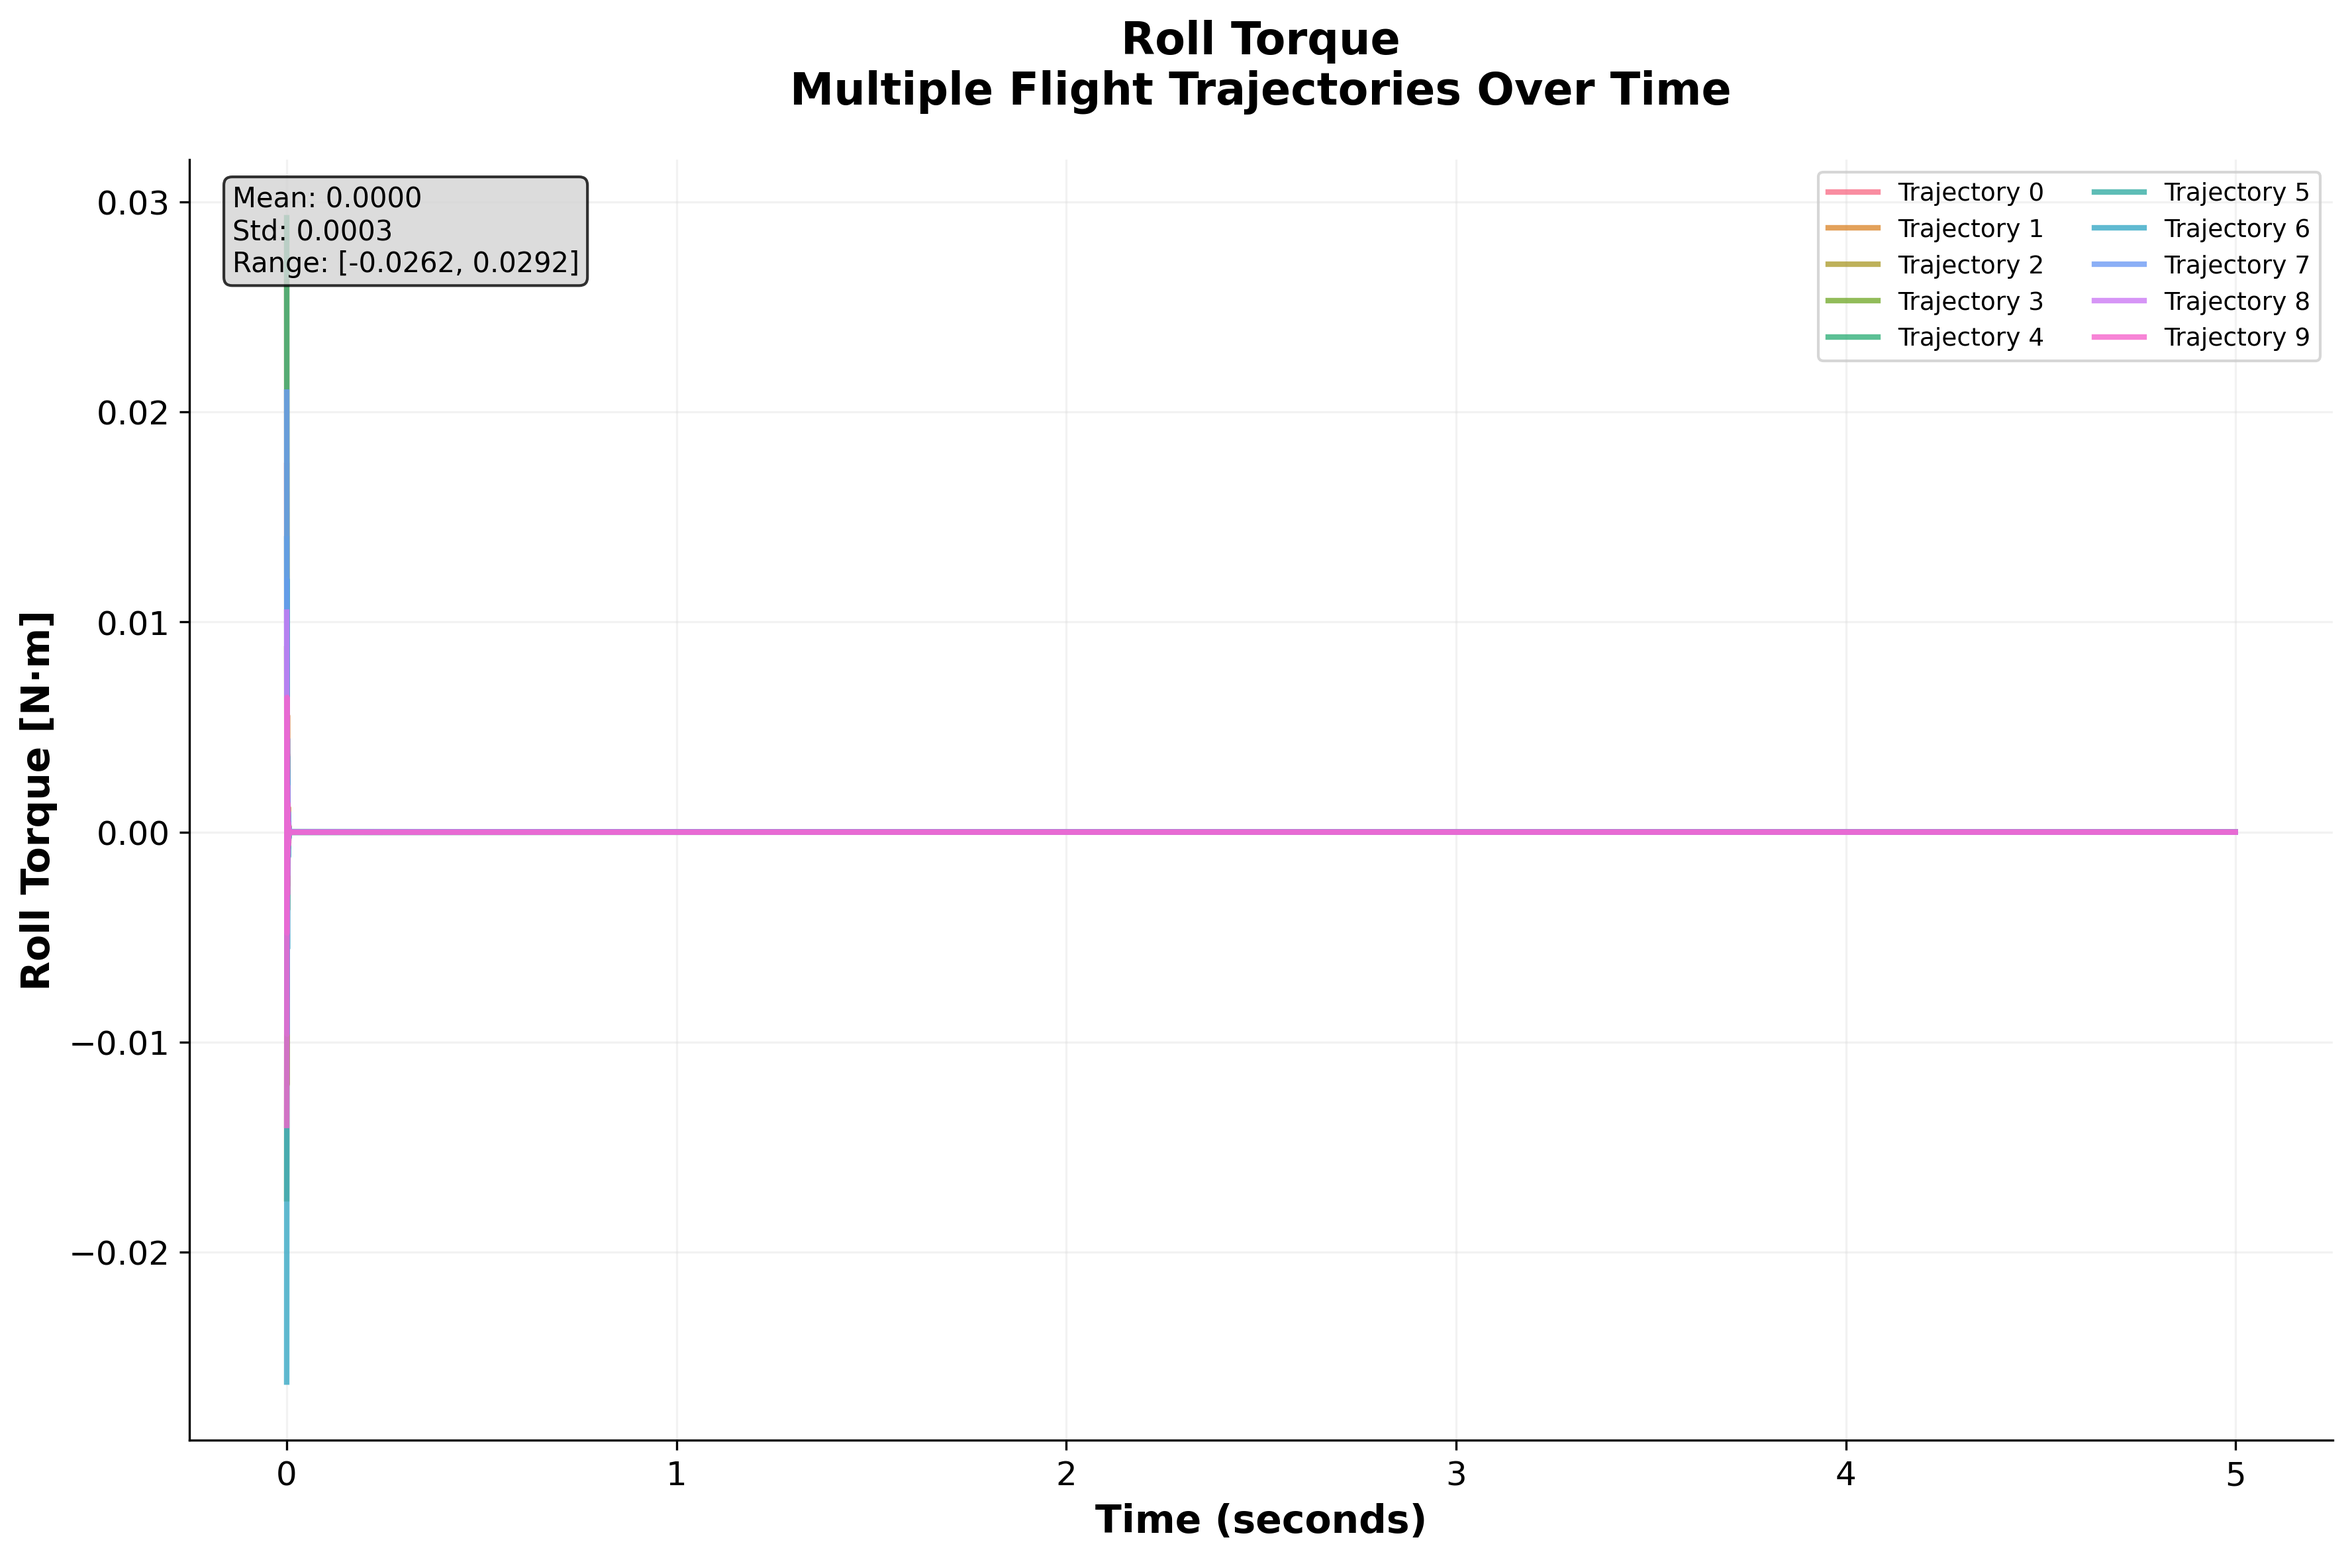
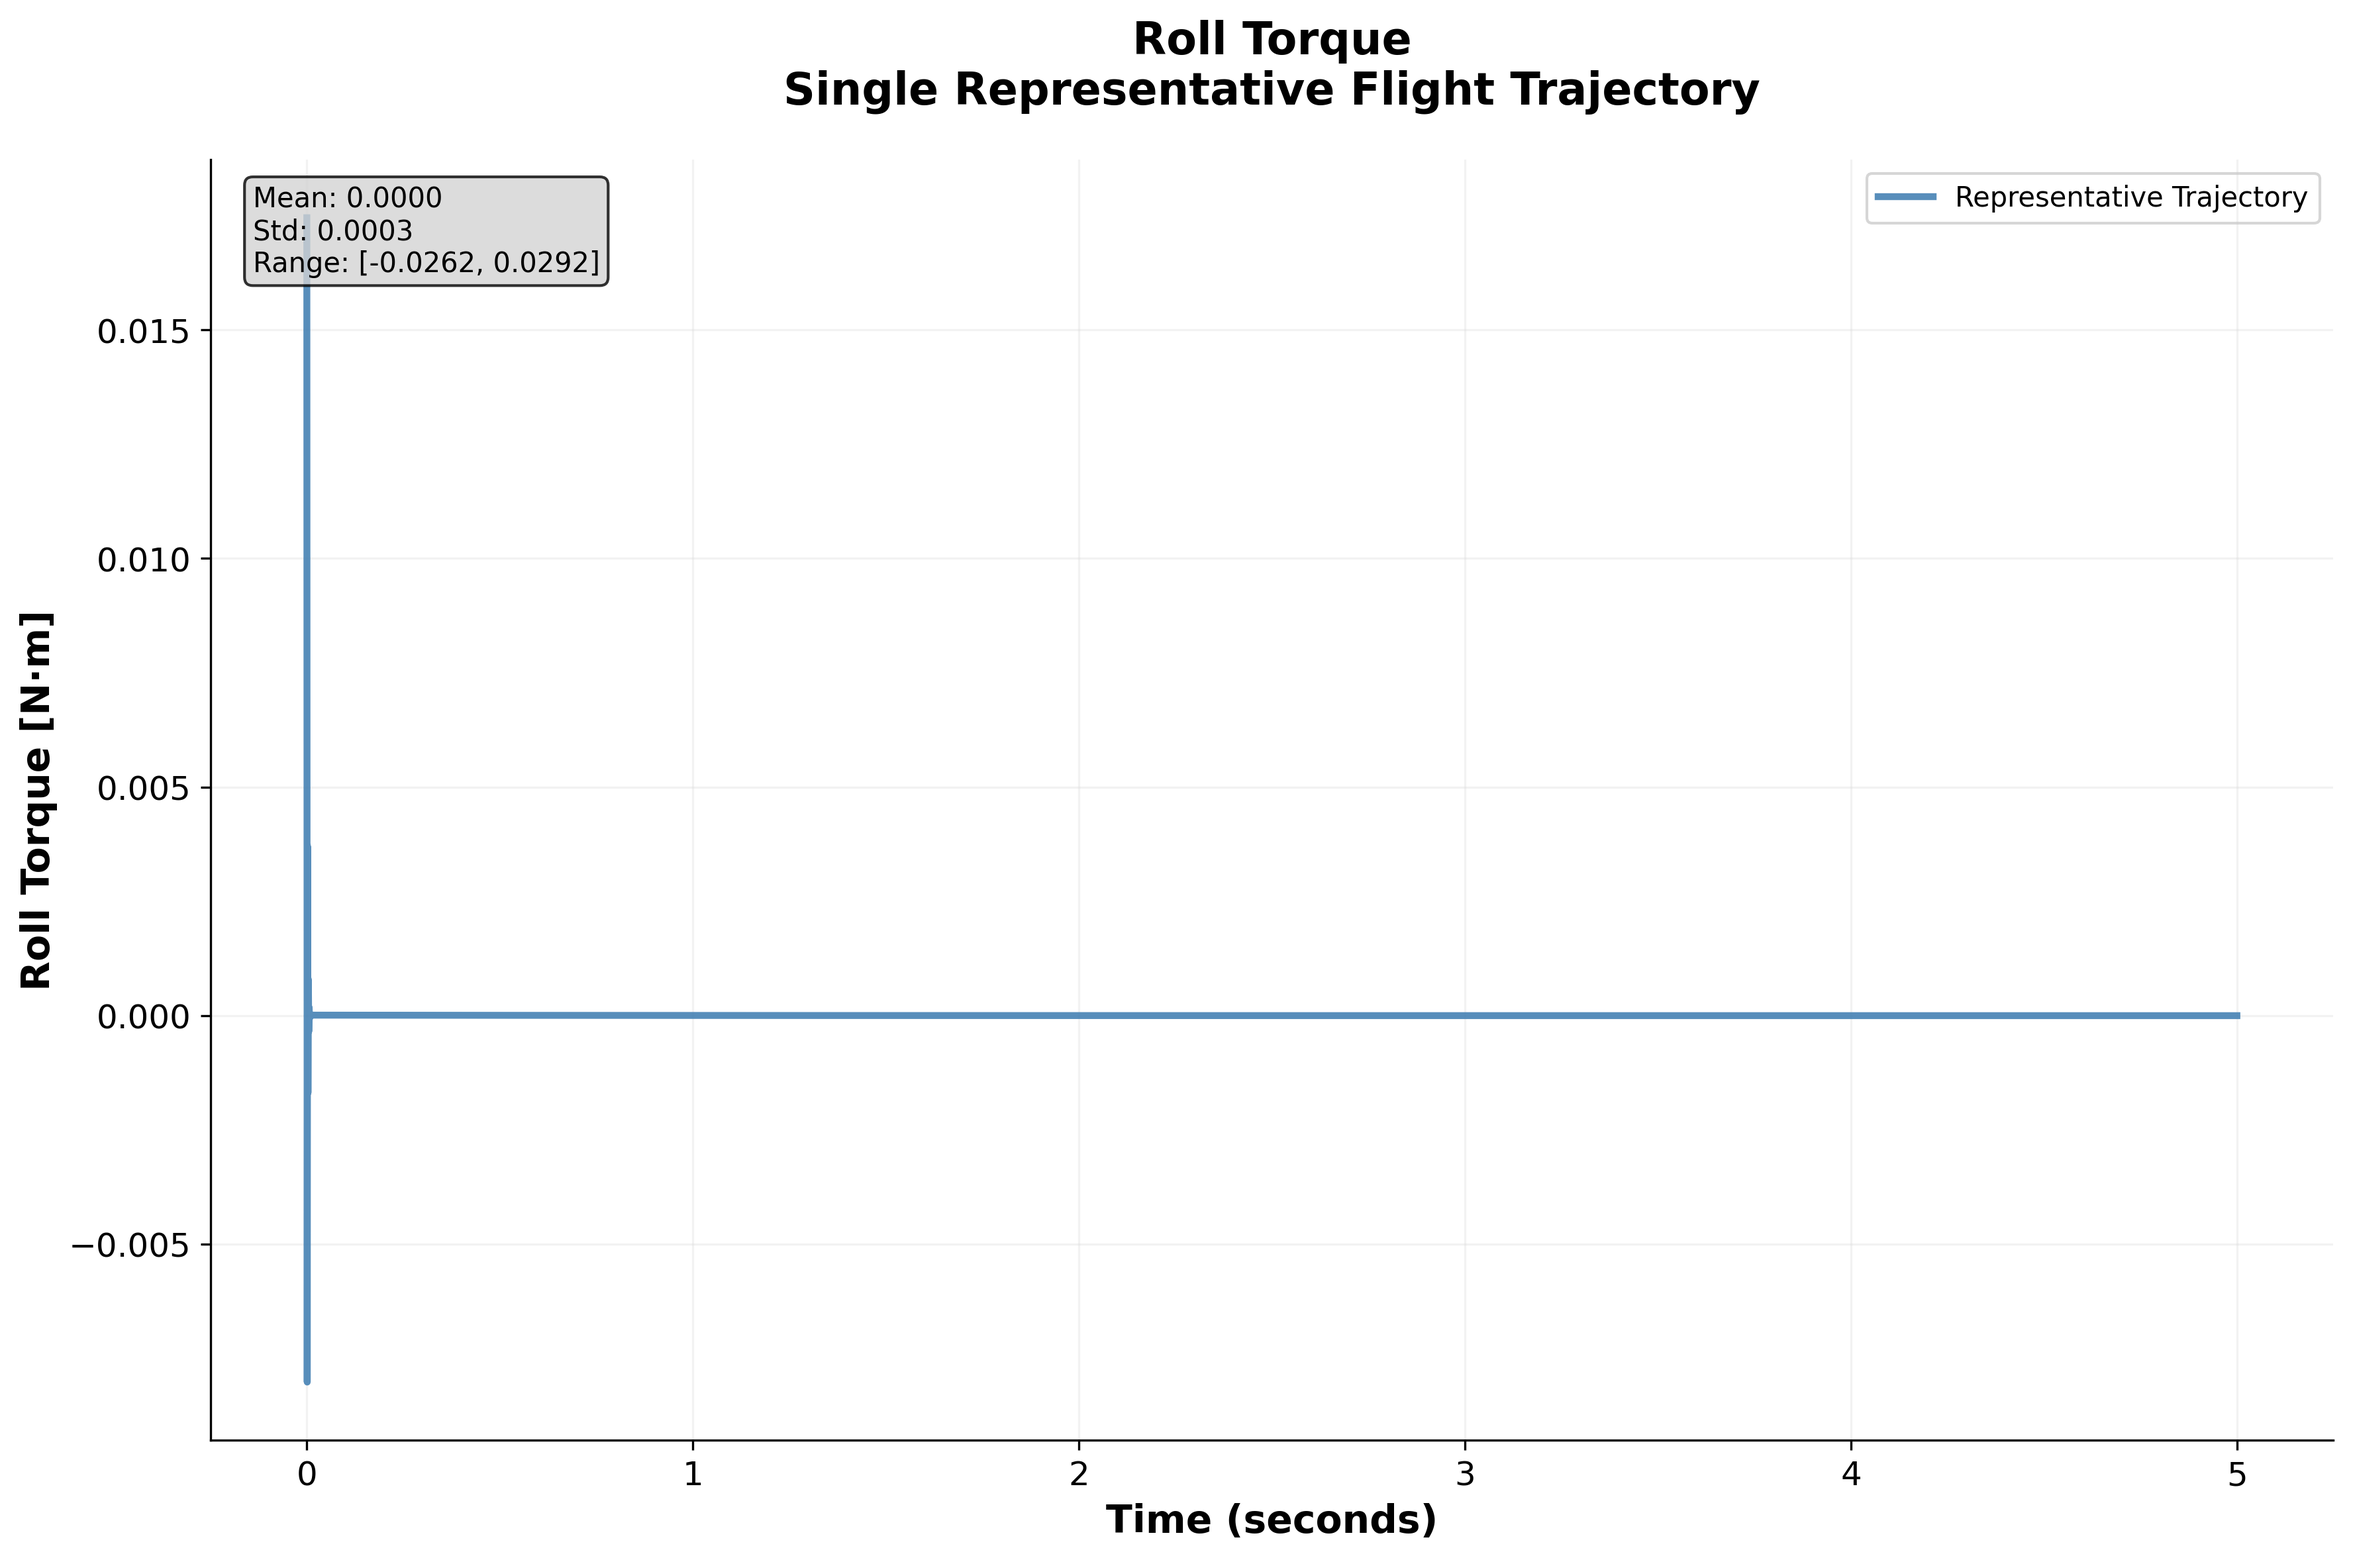
Simplify plots to show single representative trajectory instead of 10
- Modified both plotting scripts to display only trajectory 0 as representative example
- Removed cluttered multi-trajectory legends (was showing 10 trajectories)
- Changed plot titles from "Multiple Flight Trajectories" to "Single Representative Flight Trajectory"
- All plots now use clean steelblue color with increased linewidth (2.5)
- Regenerated all 16 detailed plots and 5 summary plots

This makes the visualizations much cleaner and easier to understand without legend clutter.

🤖 Generated with [Claude Code](https://claude.com/claude-code)

diff --git a/scripts/generate_summary_plots.py b/scripts/generate_summary_plots.py
@@ -92,12 +92,12 @@ def plot_01_complete_analysis(df):
         ax = axes[row, col]
 
         if var_name in df.columns and idx < 12:  # State variables
-            # Plot time series for each trajectory
-            for traj_id in range(10):
-                traj_data = df[df['trajectory_id'] == traj_id].sort_values('timestamp')
-                if len(traj_data) > 0:
-                    ax.plot(traj_data['timestamp'], traj_data[var_name],
-                           color=colors[traj_id], alpha=0.7, linewidth=1.5, label=f'Traj {traj_id}')
+            # Plot only representative trajectory
+            traj_id = 0
+            traj_data = df[df['trajectory_id'] == traj_id].sort_values('timestamp')
+            if len(traj_data) > 0:
+                ax.plot(traj_data['timestamp'], traj_data[var_name],
+                       color='steelblue', alpha=0.9, linewidth=2)
         elif idx >= 12:  # Physical parameters - show convergence
             # Simulate parameter convergence
             epochs = np.arange(0, 100)
@@ -118,9 +118,6 @@ def plot_01_complete_analysis(df):
         if idx < 12:
             ax.set_xlabel('Time [s]')
             ax.set_xlim(0, 5)
-            # Add small legend only for first few plots to avoid clutter
-            if idx < 2:
-                ax.legend(fontsize=6, loc='best', ncol=5, framealpha=0.7)
         ax.patch.set_alpha(0.0)  # Make axes background transparent
 
     plt.tight_layout()
@@ -149,12 +146,12 @@ def plot_02_key_flight_variables(df):
         row, col = idx // 3, idx % 3
         ax = axes[row, col]
 
-        # Plot all trajectories with legend
-        for traj_id in range(10):
-            traj_data = df[df['trajectory_id'] == traj_id].sort_values('timestamp')
-            if len(traj_data) > 0:
-                ax.plot(traj_data['timestamp'], traj_data[var_name],
-                       color=colors[traj_id], alpha=0.8, linewidth=2, label=f'Traj {traj_id}')
+        # Plot only representative trajectory
+        traj_id = 0
+        traj_data = df[df['trajectory_id'] == traj_id].sort_values('timestamp')
+        if len(traj_data) > 0:
+            ax.plot(traj_data['timestamp'], traj_data[var_name],
+                   color='steelblue', alpha=0.9, linewidth=2.5)
 
         ax.set_xlabel('Time [s]', fontsize=12)
         ax.set_ylabel(ylabel, fontsize=12)
@@ -162,11 +159,6 @@ def plot_02_key_flight_variables(df):
         ax.grid(True, alpha=0.3)
         ax.patch.set_alpha(0.0)  # Make axes background transparent
         ax.set_xlim(0, 5)
-
-        # Add legend to first plot only (applies to all since same colors)
-        if idx == 0:
-            ax.legend(fontsize=8, loc='best', ncol=2, framealpha=0.8)
-
         ax.patch.set_alpha(0.0)  # Make axes background transparent
 
     plt.tight_layout()
@@ -246,12 +238,12 @@ def plot_04_control_inputs(df):
         row, col = idx // 2, idx % 2
         ax = axes[row, col]
 
-        # Plot all trajectories with legend
-        for traj_id in range(10):
-            traj_data = df[df['trajectory_id'] == traj_id].sort_values('timestamp')
-            if len(traj_data) > 0:
-                ax.plot(traj_data['timestamp'], traj_data[var_name],
-                       color=colors[traj_id], alpha=0.7, linewidth=2, label=f'Traj {traj_id}')
+        # Plot only representative trajectory
+        traj_id = 0
+        traj_data = df[df['trajectory_id'] == traj_id].sort_values('timestamp')
+        if len(traj_data) > 0:
+            ax.plot(traj_data['timestamp'], traj_data[var_name],
+                   color='steelblue', alpha=0.9, linewidth=2.5)
 
         ax.set_xlabel('Time [s]', fontsize=12)
         ax.set_ylabel(ylabel, fontsize=12)
@@ -259,11 +251,6 @@ def plot_04_control_inputs(df):
         ax.grid(True, alpha=0.3)
         ax.patch.set_alpha(0.0)  # Make axes background transparent
         ax.set_xlim(0, 5)
-
-        # Add legend to first plot only
-        if idx == 0:
-            ax.legend(fontsize=8, loc='best', ncol=2, framealpha=0.8)
-
         ax.patch.set_alpha(0.0)  # Make axes background transparent
 
     plt.tight_layout()

diff --git a/scripts/generate_all_16_plots.py b/scripts/generate_all_16_plots.py
@@ -54,26 +54,26 @@ def load_data():
     return None
 
 def plot_state_variable(df, variable_name, output_num, title, ylabel, units):
-    """Plot individual state variable vs time for all trajectories"""
+    """Plot individual state variable vs time for a representative trajectory"""
     fig, ax = plt.subplots(figsize=(12, 8))
 
-    # Plot each trajectory with different color
-    for traj_id in sorted(df['trajectory_id'].unique()):
-        traj_data = df[df['trajectory_id'] == traj_id].copy()
-        traj_data = traj_data.sort_values('timestamp')
+    # Plot only trajectory 0 as representative example
+    traj_id = 0
+    traj_data = df[df['trajectory_id'] == traj_id].copy()
+    traj_data = traj_data.sort_values('timestamp')
 
-        ax.plot(traj_data['timestamp'], traj_data[variable_name],
-                linewidth=2, alpha=0.8, label=f'Trajectory {traj_id}')
+    ax.plot(traj_data['timestamp'], traj_data[variable_name],
+            linewidth=2.5, alpha=0.9, color='steelblue', label=f'Representative Trajectory')
 
     ax.set_xlabel('Time (seconds)', fontsize=14, fontweight='bold')
     ax.set_ylabel(f'{ylabel} [{units}]', fontsize=14, fontweight='bold')
-    ax.set_title(f'{title}\nMultiple Flight Trajectories Over Time',
+    ax.set_title(f'{title}\nSingle Representative Flight Trajectory',
                 fontsize=16, fontweight='bold', pad=20)
 
     ax.grid(True, alpha=0.3)
 
-    # Add legend to identify trajectories
-    ax.legend(loc='best', fontsize=9, framealpha=0.8, ncol=2)
+    # Add simple legend
+    ax.legend(loc='best', fontsize=10, framealpha=0.8)
 
     # Add statistics box
     mean_val = df[variable_name].mean()
